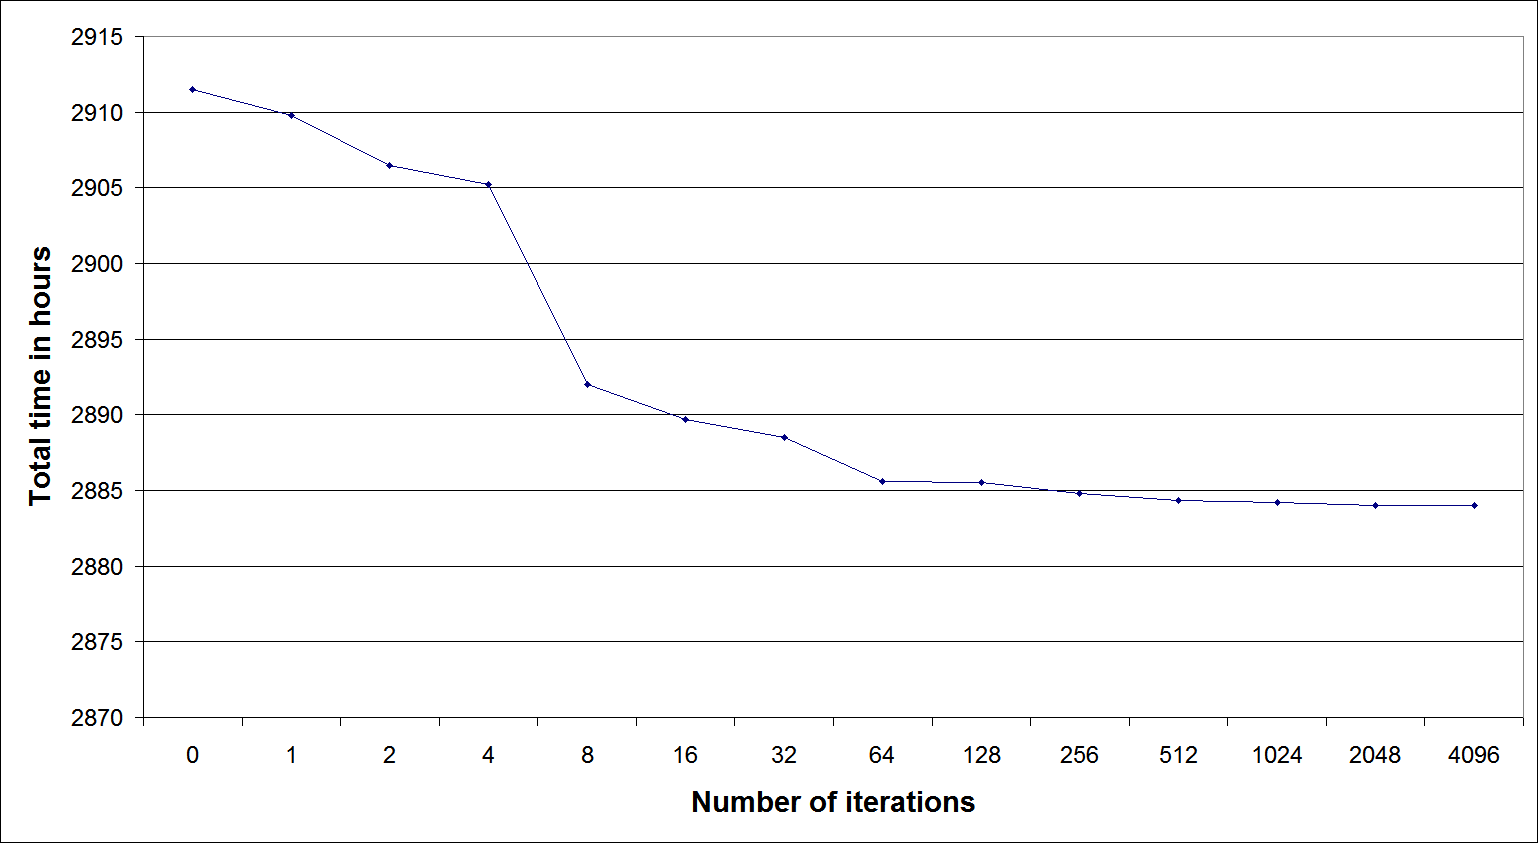
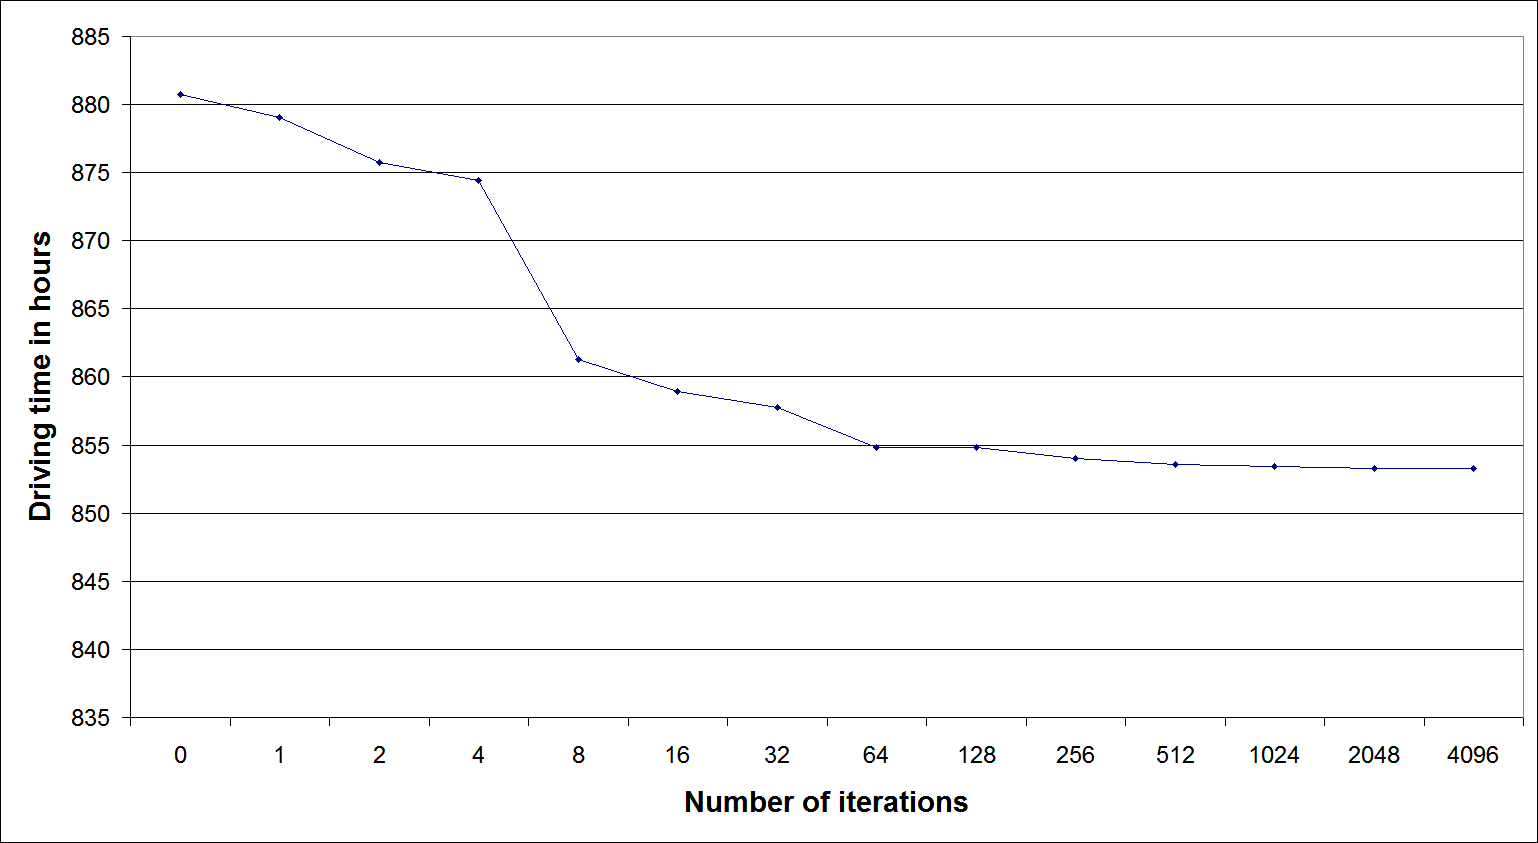
DONE????

diff --git a/latex/3background.tex b/latex/3background.tex
@@ -13,14 +13,14 @@
 
 
 
-The basic VRP can be defined with a graph $G = (V, A)$ where $V = \{v_1, v_2, v_3\dots\}$ represents the vertices, i.e. the depot and targets for the visitations and $A = \{(v_i, v_j): i \neq j \}$ represents the arcs between the vertices. The vertex $v_0$ typically represents the depot. For every arc, there is a non-negative travel cost $C=(c_{ij})$. In this context, it is used to represent the traveling time between vertices. If the travel cost is symmetric between all pairs of vertices, an undirected graph $G = (V, E)$ can be used instead, where $E=\{(i, j) : i, j \in V, i < j\}$. In all cases, the end result is an all-to-all network. \cite{laporte2007you} 
+The basic VRP can be defined with a complete graph $G = (V, A)$ where $V = \{v_0, v_1, v_2 \dots\}$ represents the vertices, i.e. the depot and targets for the visitations and $A = \{(v_i, v_j): i, j \in V, i \neq j \}$ represents the arcs between the vertices. The vertex $v_0$ typically represents the depot. For every arc, there is a non-negative travel cost $C=(c_{ij})$. In this context, it is used to represent the traveling time between vertices. If the travel cost is symmetric between all pairs of vertices, an undirected graph $G = (V, E)$ can be used instead, where $E=\{(i, j) : i, j \in V, i < j\}$. In all cases, the end result is an all-to-all network. \cite{laporte2007you} 
 
-The main idea in the network is that every node (i.e. vertex) has a connecting edge to every other node. Even if in real life there would be overlapping in the routes as one road probably leads to more than just one node, for the sake of the problem the edges are considered unique, as can be seen in Figure~\ref{fig:reallifenetwork}. In other words, even though the road map of a country does not consist of an all-to-all type network topology, the mathematical model used for this problem uses one. 
+The main idea in the network is that every node (i.e. vertex) has a connecting edge to every other node. Even if in real life there would be overlapping in the routes as one road probably leads to more than just one node, for the sake of the problem the edges are considered unique, as can be seen in Figure~\ref{fig:reallifenetwork}. In other words, even though the road map of a country does not consist of an all-to-all type network topology, the mathematical model used for this problem uses one. Even though the following diagrams do not show the lines between nodes unless they are utilised by a route, it can always be assumed that from every node there is a direct path to all of the rest of the nodes. 
 
 \begin{figure}[h]
   \begin{center}
     \includegraphics{images/simplenetwork.pdf}
-    \caption{Real life network and the mathematical network}
+    \caption{Real life network and the mathematical network. For example, in a VRP, if a vehicle wanted to go from depot to node 1 and back to the depot, the node 2 would be skipped, even if the real world route does go via node 2. The distance from depot to node 1 is calculated as the sum of the distances from Depot to node 2 and from node 2 to node 1, but past that, node 2 can be disregarded if it is not part of the route. }
     \label{fig:reallifenetwork}
   \end{center}
 \end{figure}
@@ -41,7 +41,7 @@ The following conditions must hold true:
 
 \begin{equation}
 \label{eq:baseformula2}
-\displaystyle \sum_{j \in V \setminus\{0\}} x_{0j} = 2m,
+\displaystyle \sum_{j \in V \setminus\{v_0\}} x_{0j} = 2m,
 \end{equation}
 
 \noindent
@@ -57,7 +57,7 @@ meaning that given $m$ routes, the edges between the depot and other vertices ar
 \begin{equation}
 \begin{aligned}
 \label{eq:baseformula3}
-\displaystyle\sum_{i < k} x_{ik} + \displaystyle\sum_{j > k} x_{kj} = 2 && (k \in V \setminus\{0\}),
+\displaystyle\sum_{i < k} x_{ik} + \displaystyle\sum_{j > k} x_{kj} = 2 && (k \in V \setminus\{v_0\}),
 \end{aligned}
 \end{equation}
 
@@ -72,7 +72,7 @@ If $b(S)$ represents the minimum number of vehicles required to satisfy the need
 \begin{aligned}
 \label{eq:baseformula4}
 \displaystyle\sum_{\substack{i \in S, j \notin S \\ 
-\text{ or } i \notin S, j \in S}} x_{ij} \geq 2b(S) && (S \subset V \setminus\{0\}).
+\text{ or } i \notin S, j \in S}} x_{ij} \geq 2b(S) && (S \subset V \setminus\{v_0\}).
 \end{aligned}
 \end{equation}
 
@@ -84,7 +84,7 @@ means the number of edges travelled between the vertices in the network containe
 \begin{equation}
 \begin{aligned}
 \label{eq:baseformula5}
-x_{i,j} = 0 \text{ or } 1 && (i, j \in V\setminus\{0\})
+x_{i,j} = 0 \text{ or } 1 && (i, j \in V\setminus\{v_0\})
 \end{aligned}
 \end{equation}
 
@@ -94,12 +94,12 @@ and
 \begin{equation}
 \begin{aligned}
 \label{eq:baseformula6}
-x_{0,j} = 0, 1 \text{ or } 2 && (j \in V\setminus\{0\})
+x_{0,j} = 0, 1 \text{ or } 2 && (j \in V\setminus\{v_0\})
 \end{aligned}
 \end{equation}
 
 \noindent
-mean that every edge whose other end is the depot is travelled at most two times, while the rest of the edges are traveled once at most. \cite{laporte2007you}
+mean that every edge whose other end is the depot is travelled at most two times, while the rest of the edges are traveled once at most. The reason why an edge can be traveled twice if it connects to the depot is that a route can consist only of visiting a single node and returning back to the depot. Using edges not connected to the depot twice would be pointless in all cases, as it would mean that the route returns to a node that has already been visited. \cite{laporte2007you}
 
 
 
@@ -110,6 +110,15 @@ mean that every edge whose other end is the depot is travelled at most two times
 The real life needs of route planning are rarely satisfied with the basic vehicle routing problem. There are typically additional constraints and an increased complexity that require expanding the problem statement. The vehicles used are probably not identical in terms of capacity and cost. The number of depots might also be greater than 1 and each target has to be allocated to one of them. \cite{salhi2014multi} In addition, there might be specific time windows during which the targets have to be visited \cite{ghoseiri2010multi}. 
 
 All of these additional features can be combined into a multitude of variations of the VRP. As all the variations add to the complexity of the VRP, they too are NP-complete. The variations listed here represent the most common types of VRP, but in addition, there are more specific types still available, such as one where only certain types of vehicles may visit certain targets. \cite{montoya2015literature} 
+
+The variation employed in this thesis is a VRP with time windows, because the business logic of the client company dictates that customers need to be served within a certain time period. Vehicle capacity is not an issue since the installation items are delivered beforehand to the target sites. If the algorithm was to also allocate the jobs to the technicians, the problem to be solved would be a multi depot VRP with time windows. However, the client company preferred to keep that feature out of scope of the project. 
+
+
+\subsection{Vehicle routing problem with time windows}
+
+Time windows and other scheduling constraints are common in real world and thus including them in VRP is crucial in order to get results that are applicable in common business cases. These can include postal, food or cargo delivery and service visits where it is common that the customer wants the delivery to occur during a specific time. \cite{cordeau2000vrp}
+
+To define vehicle routing problem with time windows (VRPTW), let $s_i$ denote the time that a vehicle has to spend at a target $i$ and $b_i$ denote the time at which the delivery of the service or goods begins. The earliest time the target accepts the start of the delivery is $e_i$ and the latest is $l_i$. If a vehicle arrives too early at $j$, it will have to wait so that the earliest time it can deliver the goods or services is $b_j = \max\{e_j, b_i + s_i + t_{ij}\}$. Here $t_{ij}$ represents the time required to travel between $i$ and $j$. \cite{solomon1987algorithms}
 
 
 \subsection{Multi-depot Vehicle routing problem}
@@ -127,13 +136,6 @@ Multi-depot Vehicle routing problem (MDVRP) is a variation of VRP where there ar
 \subsection{Heterogenous fleet vehicle routing problem}
 
 In real world scenarios, it is uncommon that all the vehicles in a fleet are identical. A typical variation of the VRP called heterogenous fleet vehicle routing problem (HVRP) one where the vehicles are not assumed to be identical. There is a fixed cost associated with each vehicle type and a variable cost per distance unit. Vehicle types also have unique capacities which play an important role in route generation. \cite{gendreau1999tabu}
-
-
-\subsection{Vehicle routing problem with time windows}
-
-Time windows and other scheduling constraints are common in real world and thus including them in VRP is crucial in order to get results that are applicable in common business cases. These can include postal, food or cargo delivery and service visits where it is common that the customer wants the delivery to occur during a specific time. \cite{cordeau2000vrp}
-
-To define vehicle routing problem with time windows (VRPTW), let $s_i$ denote the time that a vehicle has to spend at a target $i$ and $b_i$ denote the time at which the delivery of the service or goods begins. The earliest time the target accepts the start of the delivery is $e_i$ and the latest is $l_i$. If a vehicle arrives too early at $j$, it will have to wait so that the earliest time it can deliver the goods or services is $b_j = \max\{e_j, b_i + s_i + t_{ij}\}$. Here $t_{ij}$ represents the time required to travel between $i$ and $j$. \cite{solomon1987algorithms}
 
 
 \subsection{Vehicle routing problem with pickup and delivery}

diff --git a/latex/6evaluation.tex b/latex/6evaluation.tex
@@ -12,12 +12,12 @@ Running time depends greatly on whether the distance information has been cached
 Because the actual routes are very short (71 \% of routes consist of only one job target, 21 \% of routes have two targets, 7 \% have three and mere 1 \% of routes include 4 targets), the inherent benefits of the Jsprit's implementation of the ruin and recreate method are not apparent. A simple savings algorithm probably could reach almost similar solution quality. In the context of this project this does not matter, however, as an already existing library provided the advanced functionality with no extra cost. 
 
 
-The number of iterations used for the solving did not affect the results much. The total time cost of all the routes was used as the measurement of solution quality. As figure~\ref{fig:iterations} shows, the benefit of the ruin and recreate algorithm is minimal. The initial solution with 0 iterations is less than 1 \% slower than the solution reached with 4096 iterations. The computational cost of a single iteration is constant. Doubling the number of iterations also doubles the solving time. In figure~\ref{fig:iterations} the solving time is doubled on every step. It can be seen that the benefits of increasing the number of iterations in the algorithm gradually lower until they become nonexisting at 2048 iterations. 
+The number of iterations used for the solving did not affect the results much. The total time cost of all the routes was used as the measurement of solution quality. As figure~\ref{fig:iterations} shows, the benefit of the ruin and recreate algorithm is minimal. When only the driving time is observed, the initial solution with 0 iterations is only 3.1 \% slower than the solution reached with 4096 iterations. When the working time at targets is also taken into account, the difference is slightly less than 1 \%. The computational cost of a single iteration is constant. Doubling the number of iterations also doubles the solving time. In figure~\ref{fig:iterations} the solving time is doubled on every step. It can be seen that the benefits of increasing the number of iterations in the algorithm gradually lower until they become nonexisting at 2048 iterations. 
 
 \begin{figure}[h]
   \begin{center}
     \includegraphics[width=\textwidth]{images/iterations.png}
-    \caption{The total time cost of all routes with varying numbers of iterations. With 0 iterations the solution is just the initial solution created by jsprit.}
+    \caption{The total driving time cost of all routes with varying numbers of iterations. With 0 iterations the solution is just the initial solution created by jsprit.}
     \label{fig:iterations}
   \end{center}
 \end{figure} 
@@ -31,7 +31,7 @@ If the routes were produced company-wide and then assigned to the technicians af
 
 \section{Customer's perspective}
 
-The customer was able to run the program and make it produce the expected output. The customer was overall pleased with the program's output and found that it could be used for planning routes. 
+The customer was able to run the program and make it produce the expected output. The customer was overall pleased with the program's output and found that it could be used for planning routes. The quality of the routes was similar to that of routes produced by manual labour. This was determined by counting the number of days needed to handle a set of jobs.  
 
 This program, a preliminary demo of what is possible to do, caused interest in the client company to continue the development the work planning procedures used in the company and automate them further. The next step would be optimising the way the job targets are assigned to the various technicians. This will likely provide much more optimal results, as inefficient allocation of jobs might make it impossible to do a the routing process itself well. Automating the whole process would also grant the possibility of objectively comparing different approaches to work planning, as one method will provide a less traveling overhead than another and the results are immediately measureable.   
 

diff --git a/latex/7discussion.tex b/latex/7discussion.tex
@@ -1,4 +1,4 @@
-\chapter{Discussion and conclusions}
+\chapter{Conclusions}
 \label{chapter:discussion}
 
 There are so many various trades whose operation or parts of it can be abstracted to a VRP that there is much room for improvement in terms of automation in our society. It is no wonder that so much research has been done on the subject. Any sufficiently large company will probably benefit from applying it to various processes unless their everyday problems have absolutely nothing to do with VRPs.
@@ -7,7 +7,7 @@ The basic requirements for benefitting from this kind of work planning is having
 
 Even if in this specific case there was not much of a benefit in using an advanced solver, there was no downside to it either. The main benefit in this case was simply the automation process and providing a framework upon which future development can be based. A job which once required human labour has now been partly replaced by a machine. Furthermore, if the client company takes this work planning automation further, it is entirely possible to reach a point where only on specific exceptional circumstances does the process require any human interaction at all. 
 
-Based on my experiences with this project, I am certain that automating this kind of work planning would bring great benefit to a lot of companies. Though businesses are different and each has its own unique set of requirements, versatile libraries such as Jsprit could probably be used for their purposes.
+Based on my experiences with this project, I am certain that automating this kind of work planning would bring great benefit to a lot of companies. Though businesses are different and each has its own unique set of requirements, versatile libraries such as Jsprit could probably be used for their purposes. The biggest work would be adapting the business model into an algorithmic format. A general solution would work only in select cases where the business model of the companies is automatically translated into a certain variation of a VRP. Otherwise customisation is needed, meaning that for small scale operations, automatisation might not be cost effective. 
 
 The open source library Jsprit continues the good trend of increasing number of free tools being available to the general public. It is a good example how free software can be used to make human societies more efficient. This will eventually and ultimately lead to humankind having more free time as workforce is replaced by machines. Assuming that this redistribution of work is taken into account on a political level (a huge assumption that does not hold true so far, admittedly), humankind can only benefit from this development.
 

diff --git a/latex/4methods.tex b/latex/4methods.tex
@@ -25,12 +25,34 @@ One possible way to take congestion into account would be to redo the queries af
 \subsection{Calculating job costs}
 As shown in section~\ref{subsection:dataconversion}, the raw data from the client company's database needs to be transformed into simple parameters for the algorithm. The goal is to minimise the loss of information important to the algorithm while also reducing the number of input parameter variables as much as possible.  
 
-Each task type has a unique time cost associated with it which is then adjusted with various factors. Different house types, floors and other environmental conditions affect on how much time is required per task. The type and size of item to be installed into the house also plays a role. 
+Each task type has a unique time cost associated with it which is then adjusted with various factors. Different house types, floors and other environmental conditions affect on how much time is required per task. The type and size of item to be installed into the house also plays a role. Also the type and age of the house affect the time requirement. However, these factors are left out of the scope of this project as it would require additional statistical data regarding the time intensiveness of the features.  
 
 The number of technicians is fixed to two by the client company's standard procedure, so the number of workers does not play a role.  
 
 Once the initial parameters to convert the job information into a single time requirement have been determined, it is necessary to pay attention to how well they correspond with reality and then adjust them to get better accuracy. This is an iterative process, where future field data can be used to improve the time requirement estimate given to different tasks and installation items.
 
 For the purpose of this program, it is estimated by the client company that it will take 1 hour to install one item and about 15 minutes to do the paperwork with the customer regardless of the amount of work at the site. These initial numbers are crude estimates and should be adjusted for more accurate time requirement evaluation as more detailed information becomes available.
+
+The time required to do a single job item can be ideally calculated with the following formula: 
+
+
+\begin{equation}
+\label{eq:timecost}
+\displaystyle \sum_{c \in I} (c\times d\times e) + 15 min,
+\end{equation}
+
+where $I$ contains the time costs ($c$) of the items to be installed at the target, $d$ is the difficulty factor of the house type and $e$ is the efficiency ratio of the technician.  
+
+
+
+
+
+
+
+
+
+
+
+
 
 

diff --git a/latex/2environment.tex b/latex/2environment.tex
@@ -44,10 +44,9 @@ The input data for the program comes from the client company's sales data. The d
 \item Estimates of the technicians' performances. How fast they are at the job.
 \end{itemize}
 
-To prevent the algorithm from becoming overly complex, the time and resource requirements of a single job should be simplified as much as possible. This means that various weights need to be applied to various tasks and installation items, with bigger and heavier items taking more time and difficult building type or installation location also creating additional time costs for the job. The end result should be the following parameters per job target:
+Since the installation items are delivered separately, capacity is of no concern for the VRP. To prevent the algorithm from becoming overly complex, the time and resource requirements of a single job should be simplified as much as possible. This means that various weights need to be applied to various tasks and installation items, with bigger and heavier items taking more time and difficult building type or installation location also creating additional time costs for the job. The end result should be the following parameters per job target:
 
 \begin{itemize}
-\item Vehicle capacity requirements of the installation items and other equipment.
 \item Total time requirement for the technicians, affected by the house type and the amount of work to be done at the location.
 \item Distance and traveling time to other job targets and depot. 
 \end{itemize}

diff --git a/latex/acronyms.tex b/latex/acronyms.tex
@@ -6,11 +6,22 @@
 
 \noindent
 \begin{longtable}{@{}p{0.25\textwidth}p{0.7\textwidth}@{}}
+
 ABC & Artificial Bee Colony, a VRP solving heuristic \\
-ACO & Ant Colony Optimisation, a VRP solving heuristic \\
+API & Application Programming Interface \\
+ACO & Ant Colony Optimisation, a VRP solving heuristic \\ 
+CVRP & Capacitated Vehicle Routing Problem \\
+GA & Genetic Algorithm \\
+GVRP & Green Vehicle Routing Problem \\
+GRASP & Greedy Randomized Adaptive Search Procedure \\
+HVRP & Heterogenous Fleet Vehicle Routing Problem \\
+IDE & Integrated Development Environment \\
+LRP & Location Routing Problem \\
+MDVRP & Multi-Depot Vehicle Routing Problem \\
+PVRP & Periodic Vehicle Routing Problem \\
+R\&R & Ruin and Recreate, a VRP solving heuristic \\
 VRPPD & Vehicle Routing Problem with Pickup and Delivery \\
-VRPTW & Vehicle Routing Problem with Time Windows \\ 
-CVRP & Capacitated Vehicle Routing Problem \\ 
-IDE & Integrated Development Environment
+VRPTW & Vehicle Routing Problem with Time Windows \\
+VRP & Vehicle Routing Problem \\ 
 
 \end{longtable}
